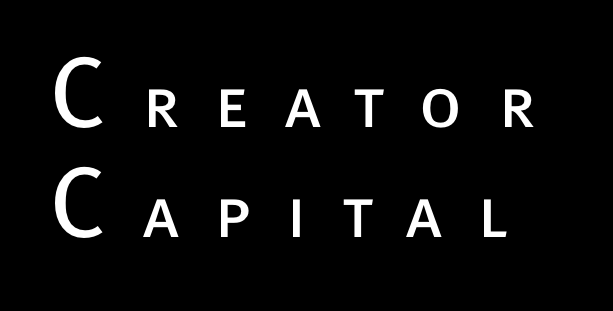
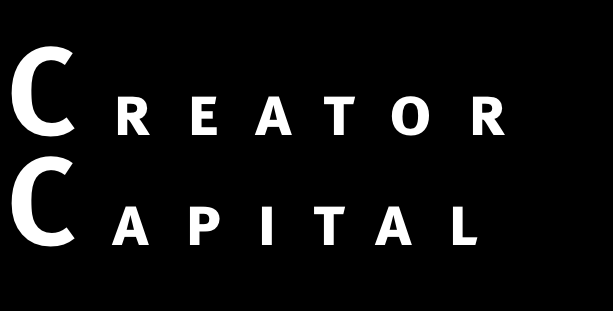
black theme

Changed region(s): [[0.0, 0.1447, 0.8679, 0.463], [0.0, 0.492, 0.8369, 0.8103]]

diff --git a/css/app.css b/css/app.css
@@ -1,5 +1,9 @@
+html {
+    background-color: black;
+}
 body {
   font-family: "Roboto", "Helvetica", "Arial", sans-serif;
+  background-color: black;
 }
 p,
 h1,
@@ -29,18 +33,18 @@ h3 {
 }
 h4 {
   font-size: 16px;
-  color: #222222;
+  color: white;
   text-transform: capitalize;
 
 }
 h5 {
-  color: #222222;
+  color: white;
 }
 h6 {
-  color: #222222;
+  color: white;
 }
 p {
-  color: #222222;
+  color: white;
 }
 article p {
   font-size: 1rem;
